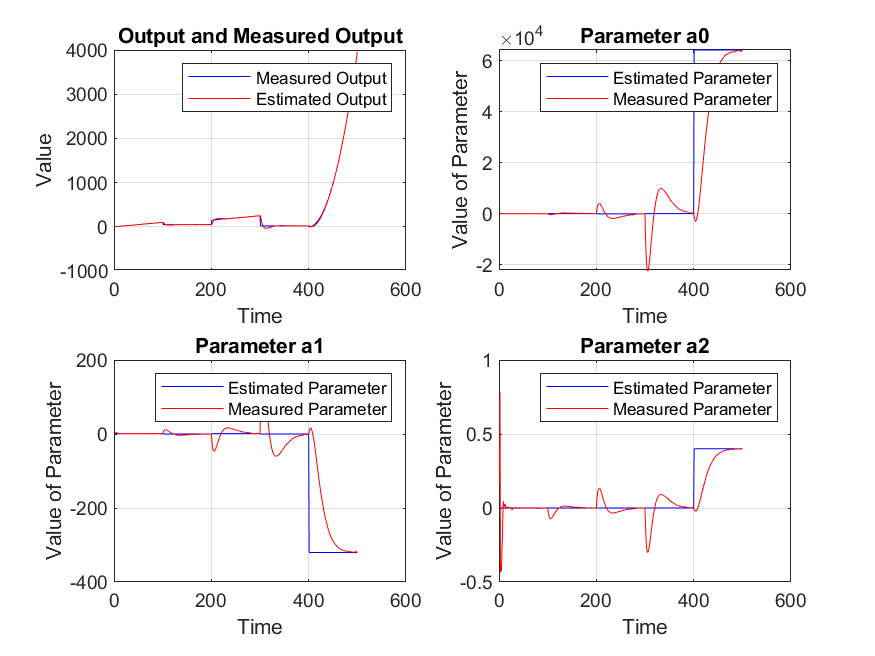
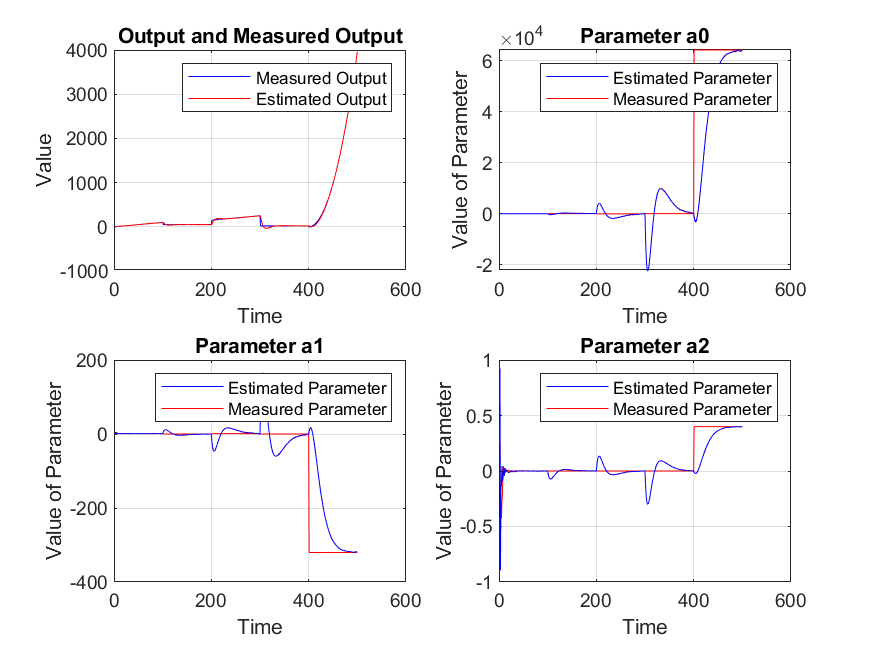
Changes to images

diff --git a/MATLAB/code/Test3.m b/MATLAB/code/Test3.m
@@ -38,9 +38,9 @@ legend('Measured Output','Estimated Output');
 grid on 
 
 subplot(2,2,2);
-plot(numSample,true_a0,'b-');
+plot(numSample,true_a0,'r-');
 hold on 
-plot(numSample,theta_full(:,3),'r-')
+plot(numSample,theta_full(:,3),'b-')
 xlabel('Time');
 ylabel('Value of Parameter');
 title('Parameter a0')
@@ -48,9 +48,9 @@ legend('Estimated Parameter','Measured Parameter');
 grid on  
 
 subplot(2,2,3);
-plot(numSample,true_a1,'b-');
+plot(numSample,true_a1,'r-');
 hold on 
-plot(numSample,theta_full(:,2),'r-')
+plot(numSample,theta_full(:,2),'b-')
 xlabel('Time');
 ylabel('Value of Parameter');
 title('Parameter a1')
@@ -58,9 +58,9 @@ legend('Estimated Parameter','Measured Parameter');
 grid on 
 
 subplot(2,2,4);
-plot(numSample,true_a2,'b-');
+plot(numSample,true_a2,'r-');
 hold on 
-plot(numSample,theta_full(:,1),'r-')
+plot(numSample,theta_full(:,1),'b-')
 xlabel('Time');
 ylabel('Value of Parameter');
 title('Parameter a2');
